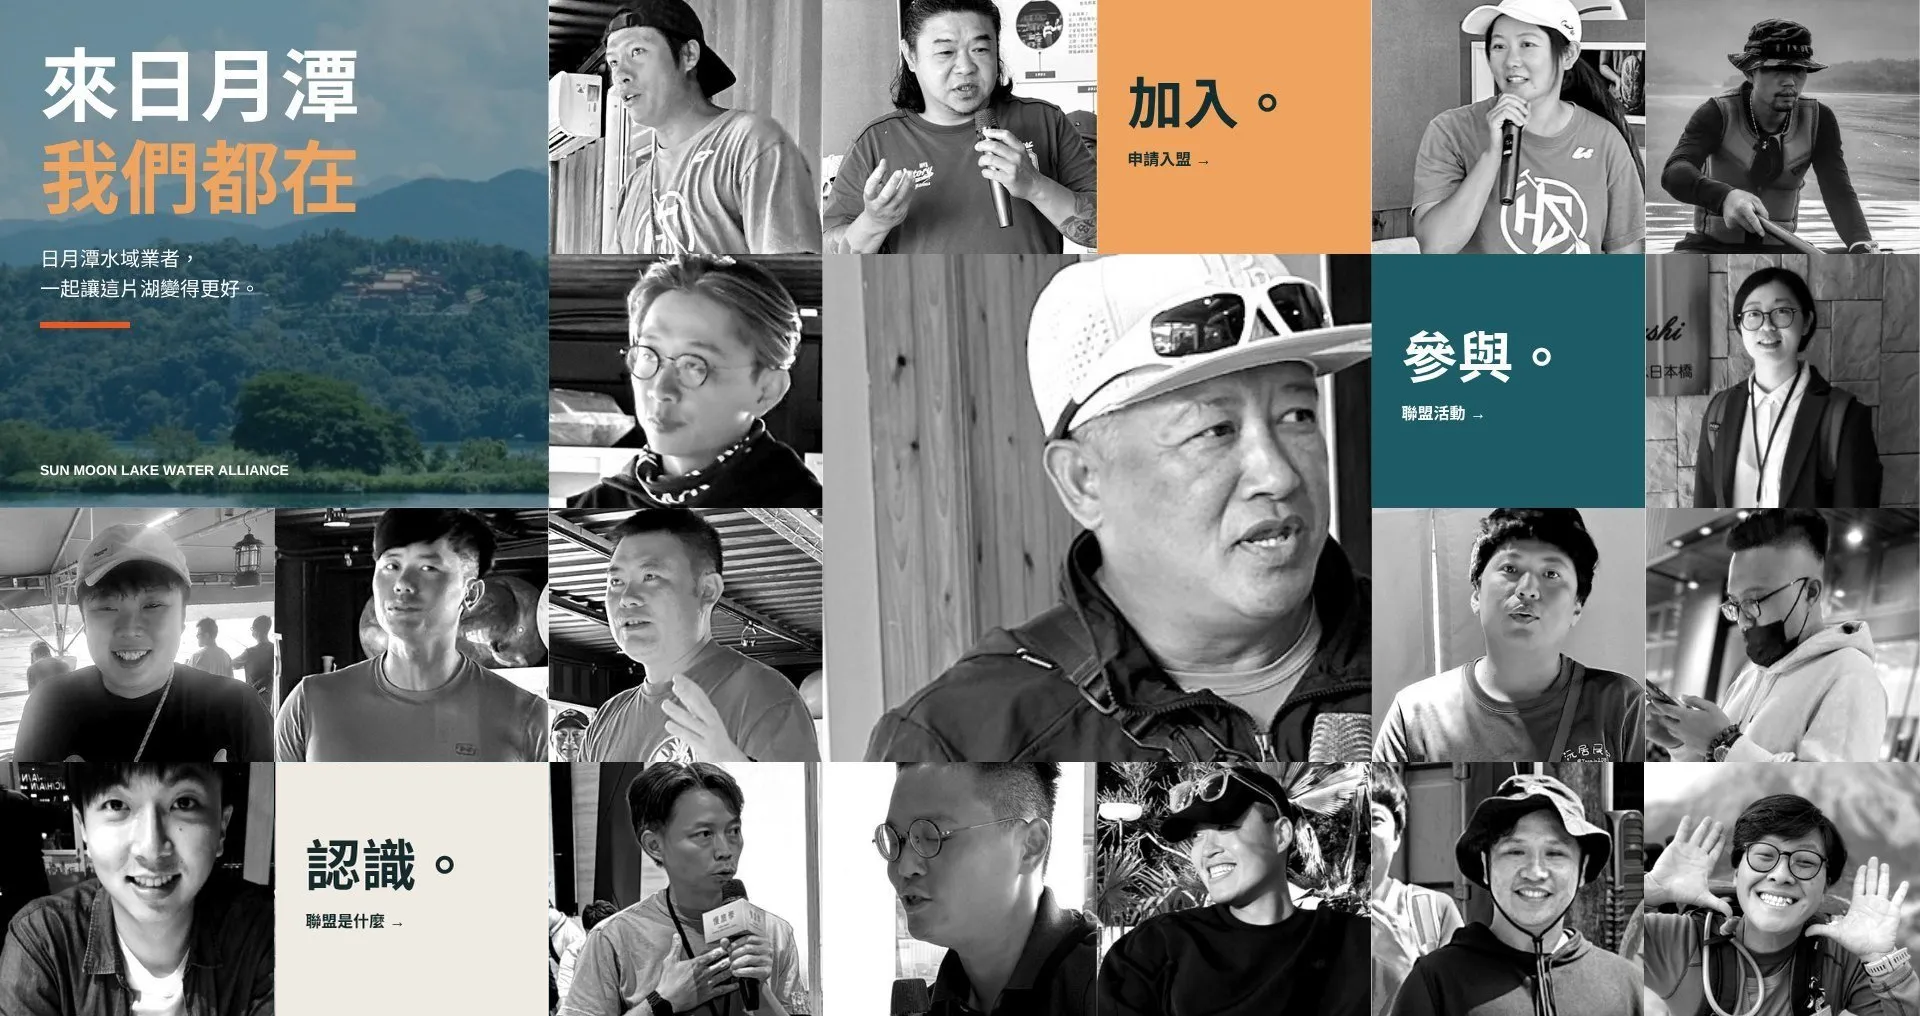
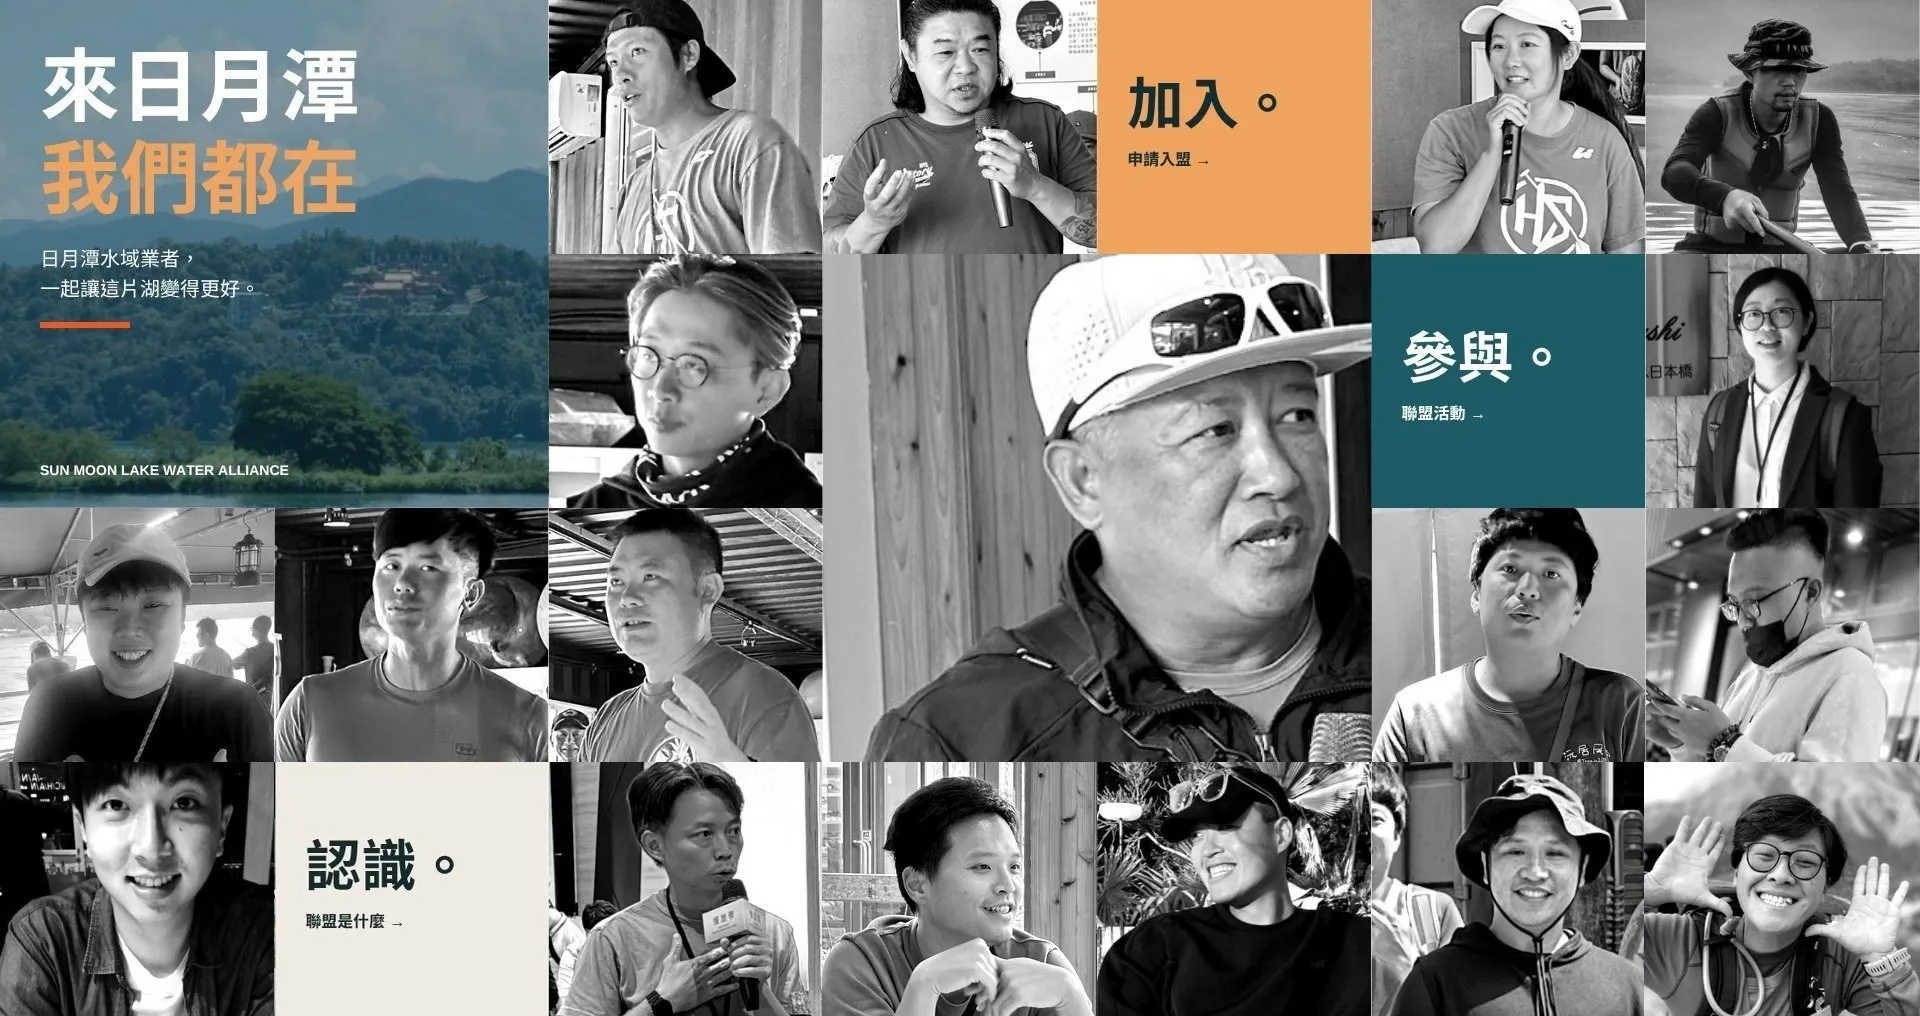
首頁封面照：更換下排左數第四張
Claude-Session: https://claude.ai/code/session_01Js8xSsW9gh93oqqT9u2Yo4

Changed region(s): [[0.4062, 0.7323, 0.5938, 1.0]]

diff --git a/index.html b/index.html
@@ -17,7 +17,7 @@
 <link rel="preconnect" href="https://fonts.googleapis.com">
 <link rel="preconnect" href="https://fonts.gstatic.com" crossorigin>
 <link rel="stylesheet" href="https://fonts.googleapis.com/css2?family=Noto+Sans+TC:wght@400;500;700&family=Noto+Serif+TC:wght@600;700&display=swap">
-<link rel="stylesheet" href="/assets/style.css?v=20261124">
+<link rel="stylesheet" href="/assets/style.css?v=20261124b">
 </head>
 <body>
 <a class="skip" href="#main">跳到主要內容</a>
@@ -32,8 +32,8 @@
 <section class="hero" data-hide-sticky>
   <div class="hero-art">
     <picture>
-      <source type="image/webp" srcset="/assets/img/hero-members-960.webp?v=20261124 960w, /assets/img/hero-members.webp?v=20261124 1920w" sizes="100vw">
-      <img class="hero-img" src="/assets/img/hero-members.jpg?v=20261124" alt="來日月潭，我們都在：日月潭湖景與聯盟業者夥伴們的人像牆" width="1920" height="1016" fetchpriority="high">
+      <source type="image/webp" srcset="/assets/img/hero-members-960.webp?v=20261124b 960w, /assets/img/hero-members.webp?v=20261124b 1920w" sizes="100vw">
+      <img class="hero-img" src="/assets/img/hero-members.jpg?v=20261124b" alt="來日月潭，我們都在：日月潭湖景與聯盟業者夥伴們的人像牆" width="1920" height="1016" fetchpriority="high">
     </picture>
     <a class="hot hot-join" href="/join/" aria-label="加入聯盟：申請入盟"></a>
     <a class="hot hot-events" href="/events/" aria-label="參與聯盟活動"></a>
